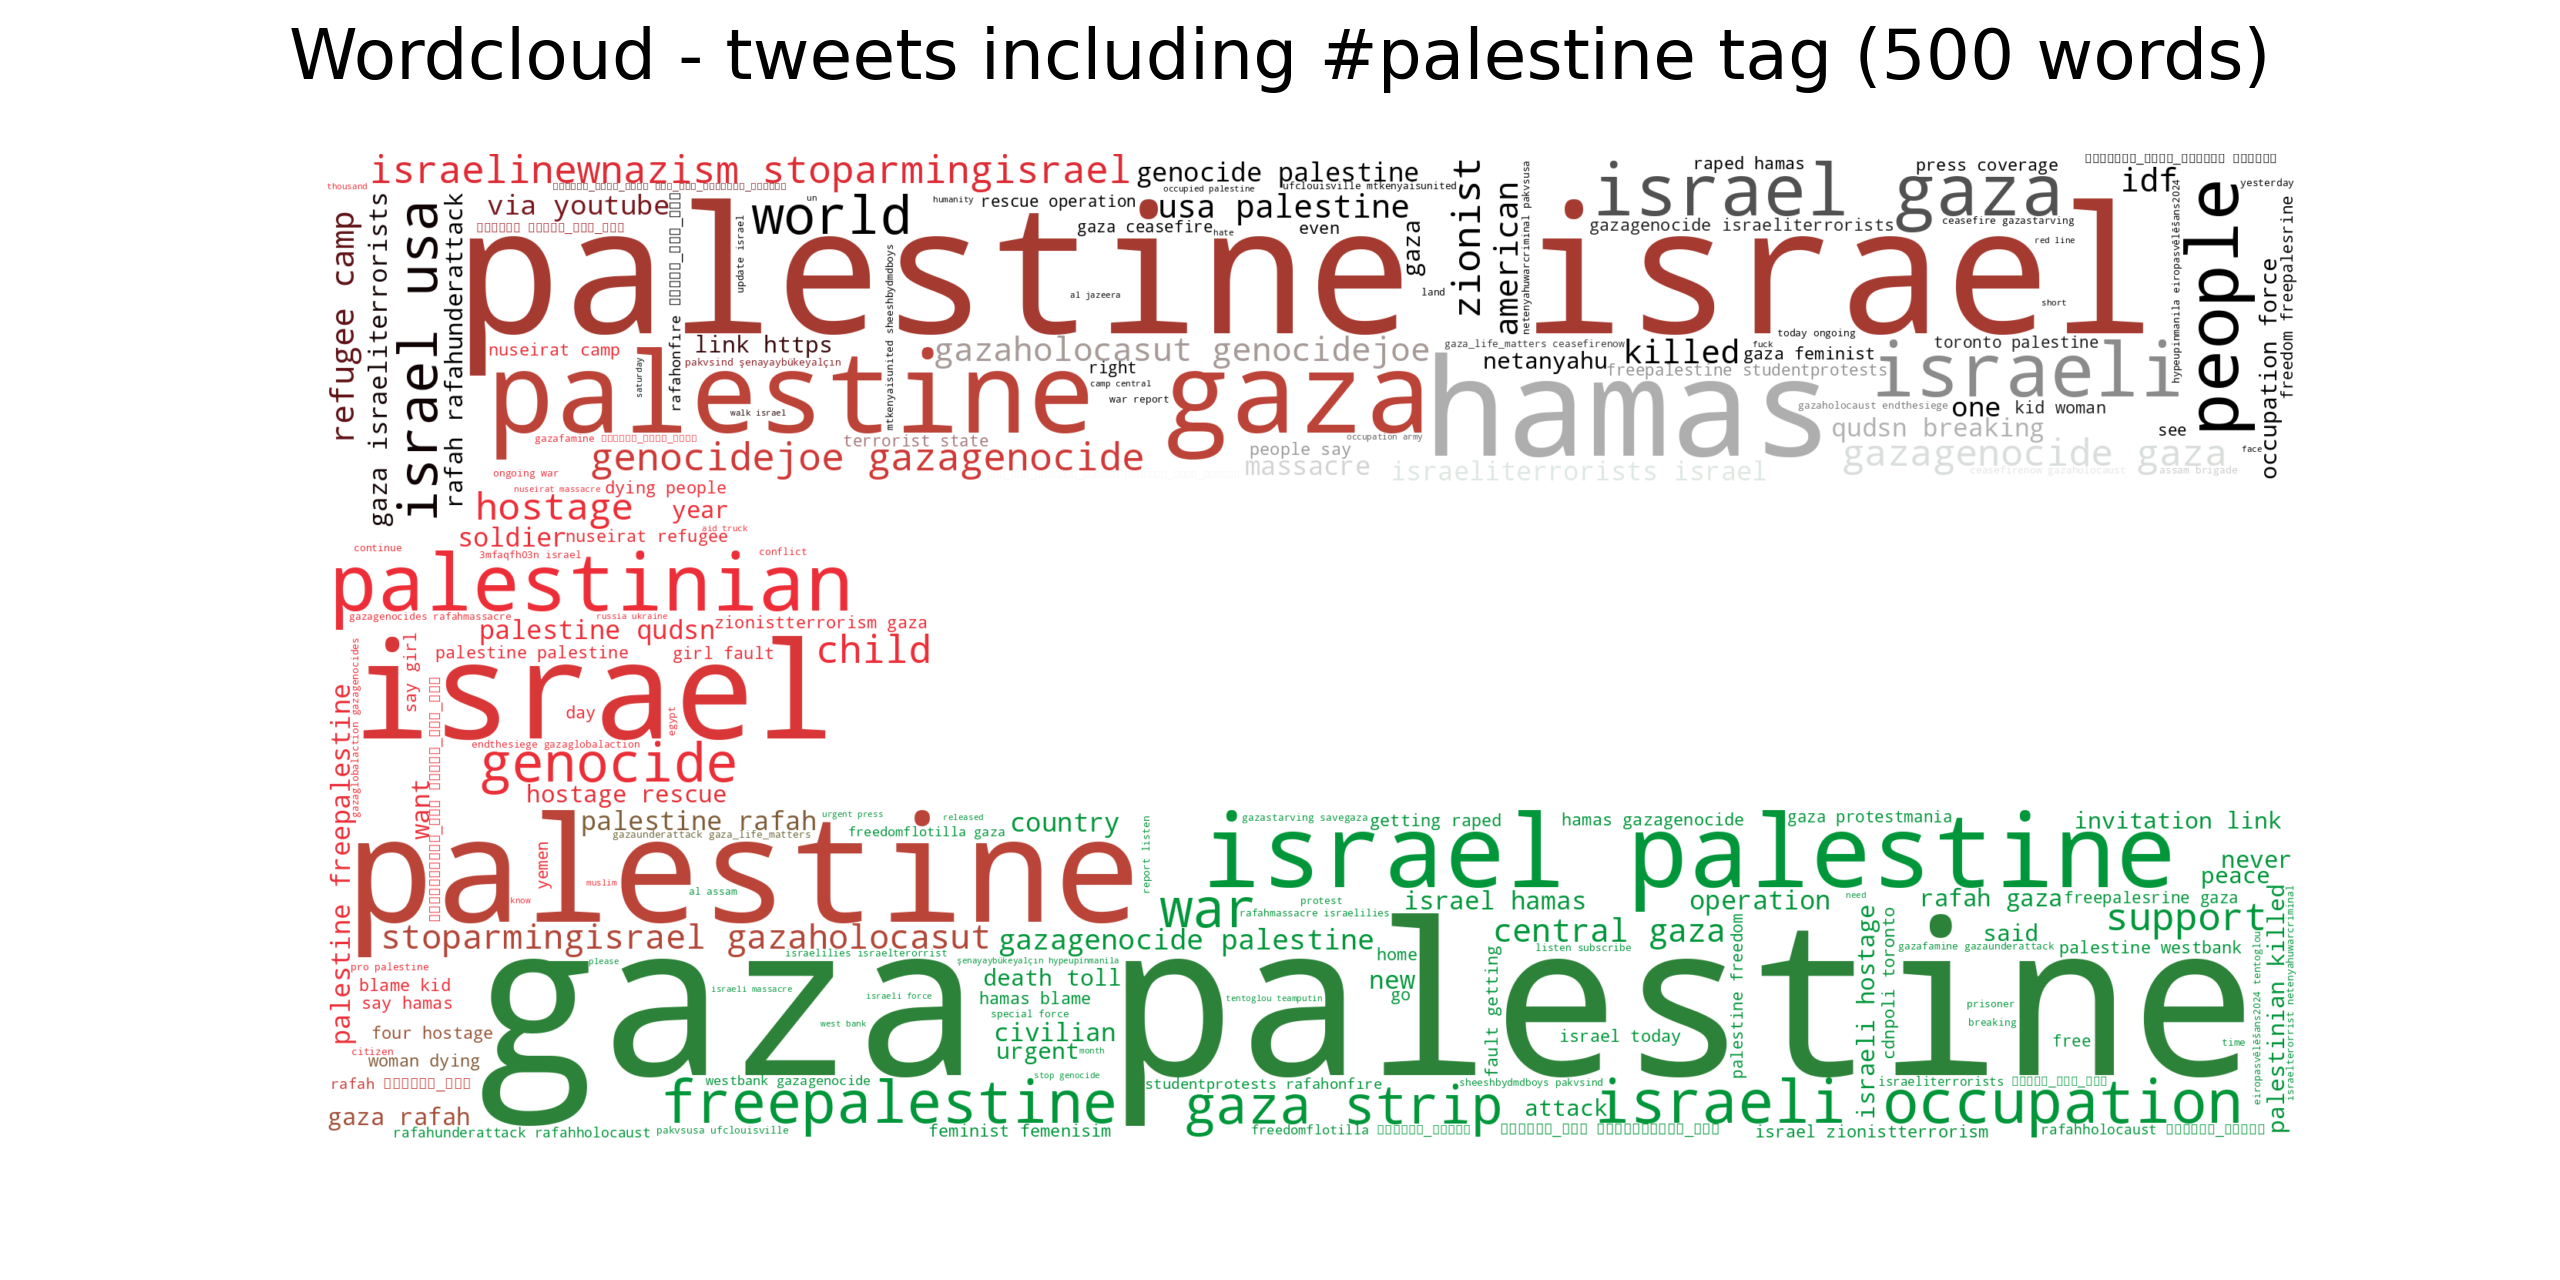
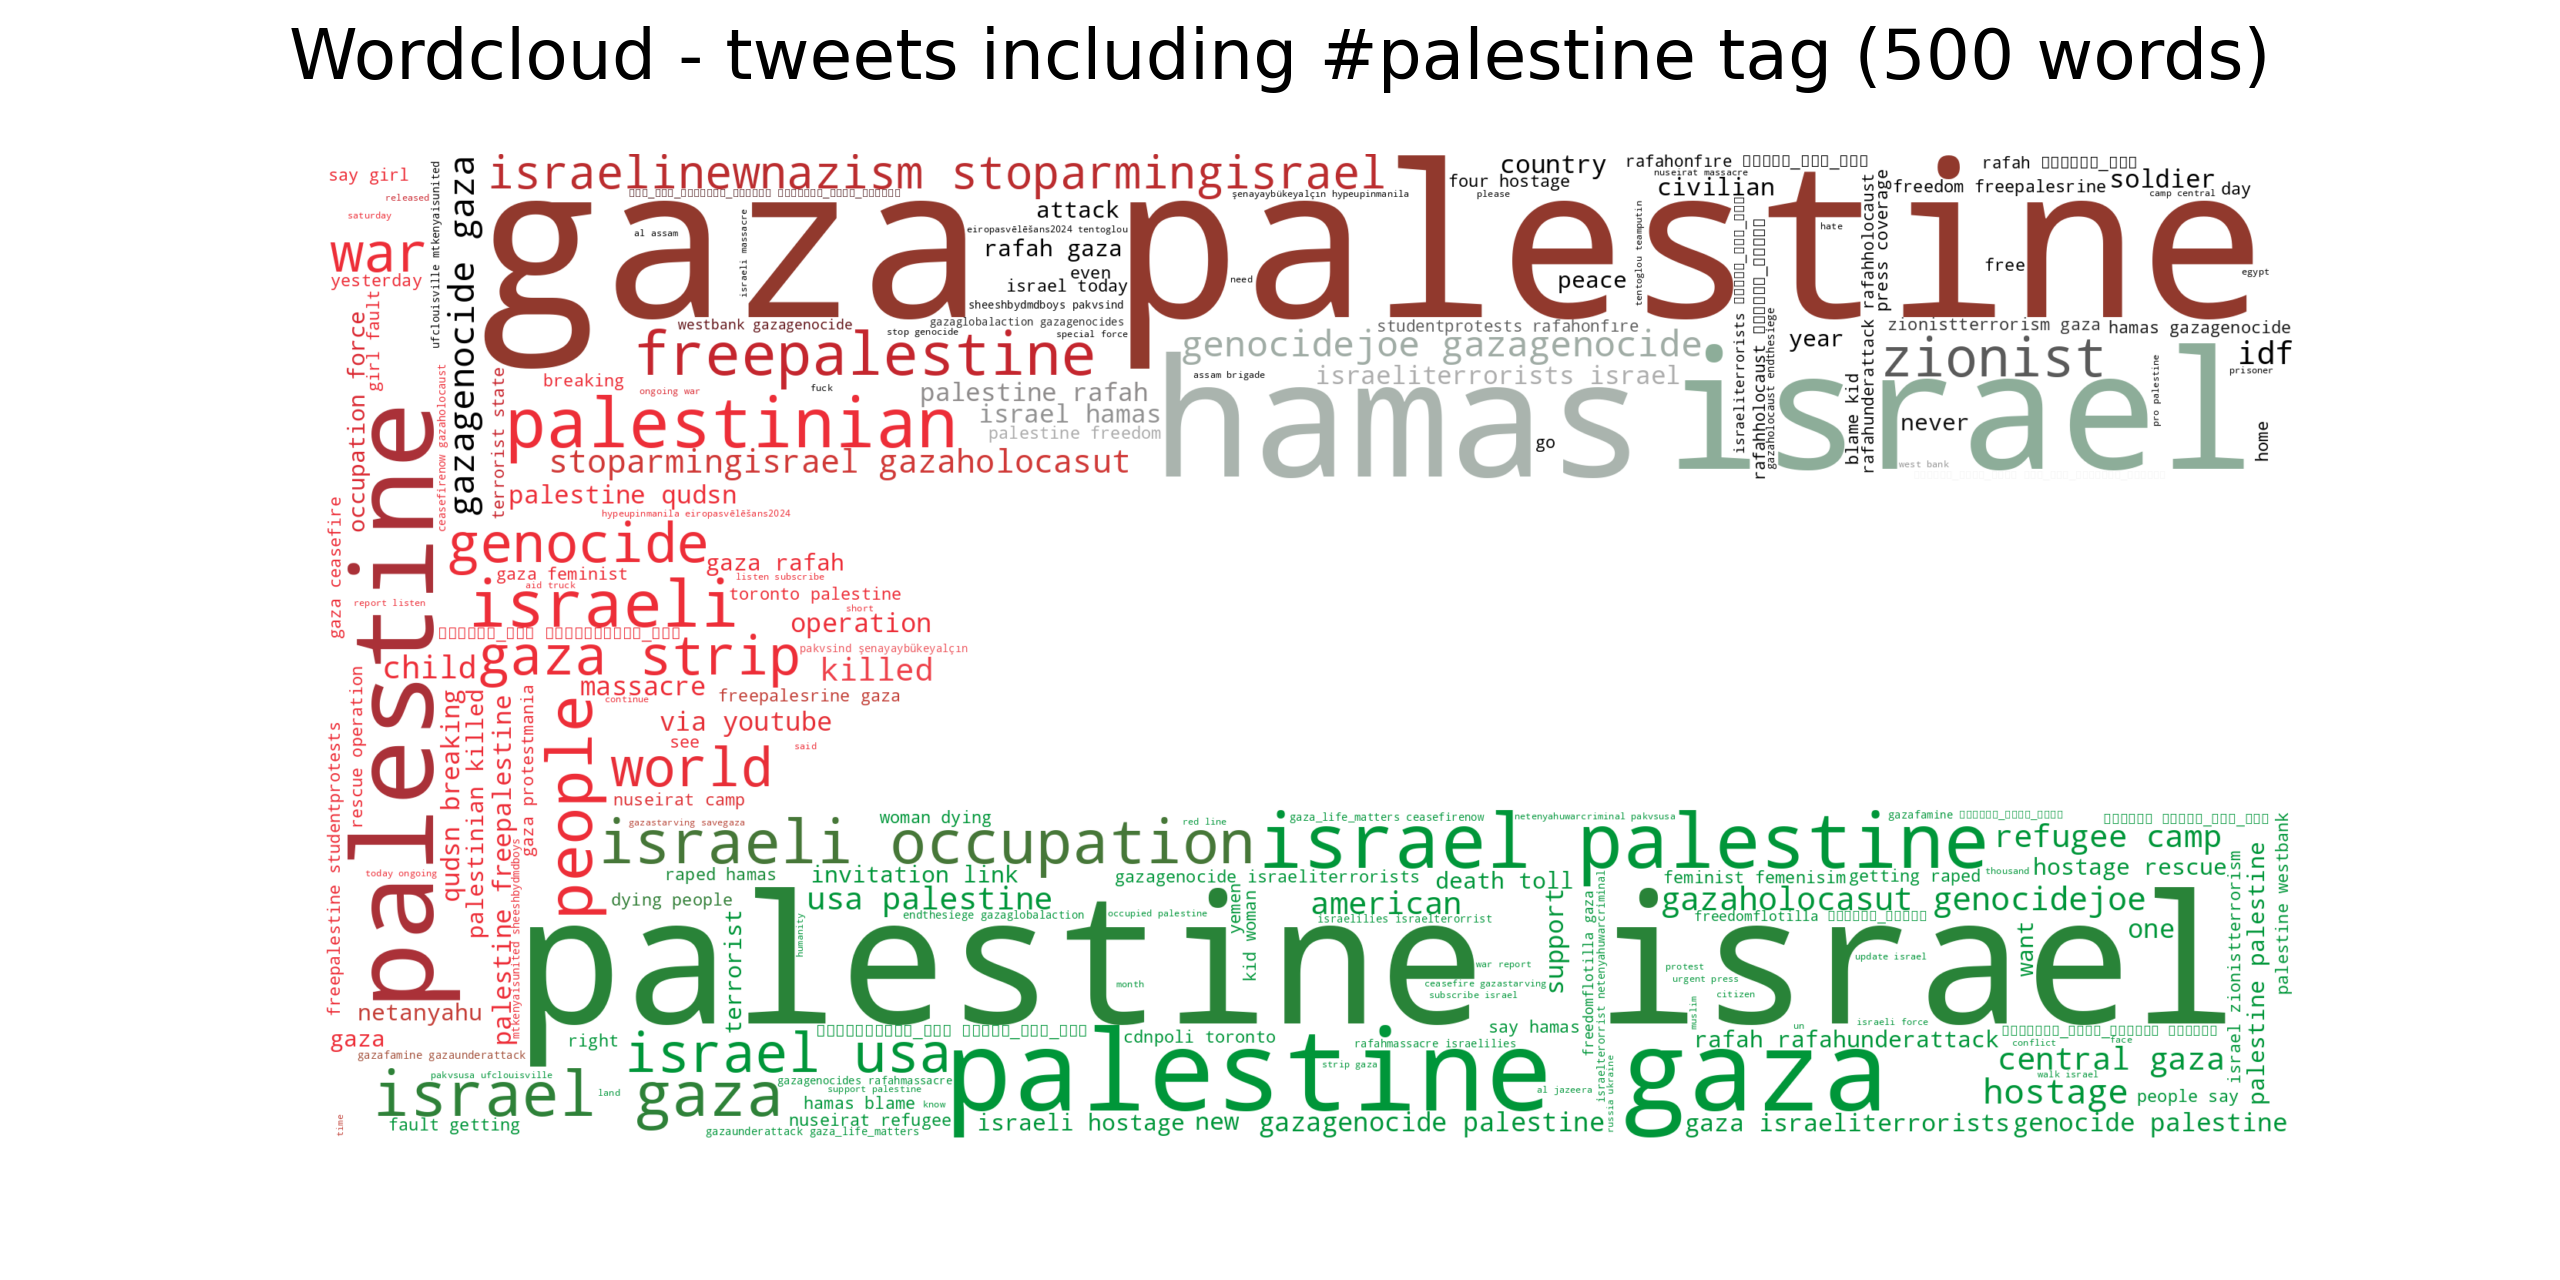
preprocessing improved

Changed region(s): [[0.125, 0.125, 0.9062, 0.9062]]

diff --git a/src/words/process.py b/src/words/process.py
@@ -7,62 +7,97 @@ from rich import print
 import pandas as pd
 import string
 from autocorrect import Speller
-from sklearn.feature_extraction.text import CountVectorizer
-import text2emotion as te
+import re
+import numpy as np
 
 analyzer = SentimentIntensityAnalyzer()
 speller = Speller(fast=True)
-# Use a pipeline as a high-level helper
 
 
+# Preprocessing function
 def preprocess_text(text: str):
-    # remove spells
-    spells_removed = speller(text.lower().strip())
-    # tokenize
-    tokens = word_tokenize(spells_removed)
-    # remove stop words
+    if pd.isnull(text):  # Check for NaN values
+        return ""
 
+    # Remove URLs
+    text = re.sub(r"""https?:\/\/\S+|www\.\S+""", " ", text)
+
+    # Spelling correction
+    text = speller(text.lower().strip())
+
+    # Tokenize
+    tokens = word_tokenize(text)
+
+    # Stopwords and punctuation removal
     new_stopwords = stopwords.words("english") + list(string.punctuation)
     new_stopwords.extend(
-        ["'", "`", "...", ".", '"', "``", "..", "”", "''", "“", "’", ","]
+        [
+            "'",
+            "`",
+            "...",
+            ".",
+            '"',
+            "``",
+            "..",
+            "”",
+            "''",
+            "“",
+            "’",
+            ",",
+            "co",
+            "http",
+            "amp",
+            "u",
+            "n",
+            "s",
+            "n't",
+            "t",
+            " ",
+            "\n",
+        ]
     )
     filtered_tokens = [token for token in tokens if token not in new_stopwords]
-    # Lemmatize the tokens
+
+    # Lemmatize
     lemmatizer = WordNetLemmatizer()
     lemmatized_tokens = [lemmatizer.lemmatize(token) for token in filtered_tokens]
-    # Join the tokens back into a string
-    return lemmatized_tokens
+
+    return " ".join(lemmatized_tokens)
 
 
+# Sentiment analysis function
 def get_sentiment(text):
+    if pd.isnull(text) or text.strip() == "":
+        return np.nan
     scores = analyzer.polarity_scores(text)
-    sentiment = 1 if scores["pos"] > 0 else 0
-    return sentiment
+    return 1 if scores["pos"] > 0 else 0
 
 
+# Load dataset
 def load_dataset():
     return pd.read_csv("./data/war-day/df.csv")
 
-
 if __name__ == "__main__":
-    # download if not present on the device
-    # nltk.download()
     df = load_dataset()
 
+    # Create new DataFrame
     new_df = pd.DataFrame()
     new_df["date"] = df["date"]
-    new_df["processed_content"] = (
-        df["raw_content"].apply(preprocess_text).apply(" ".join)
-    )
-    # new_df["user_desc_preprocessed"] = (
-    #     df["user_description"].apply(str).apply(preprocess_text)
-    # )
+
+    # Process content
+    new_df["processed_content"] = df["raw_content"].apply(preprocess_text)
+
+    # Drop rows with NaN or empty processed_content
+    new_df = new_df[new_df["processed_content"].str.strip() != ""]
+
     new_df["hash_tags"] = df["hash_tags"]
+
+    # Sentiment analysis
     new_df["content_sentiment"] = new_df["processed_content"].apply(get_sentiment)
-    # new_df["user_desc_sentiment"] = new_df["processed_user_desc"].apply(
-    #     get_sentiment
-    # )
-    # vectorizer = CountVectorizer()
-    # x = vectorizer.fit_transform(new_df["processed_content"])
-    # print(x)
-    new_df.to_csv("./data/war-day/preprocessed.csv")
+
+    # Drop rows with NaN sentiment
+    new_df = new_df.dropna(subset=["content_sentiment"])
+
+    # Save to CSV
+    new_df.to_csv("./data/war-day/preprocessed.csv", index=False)
+    print("Preprocessing done!")

diff --git a/src/words/bow.py b/src/words/bow.py
@@ -1,11 +1,18 @@
 import pandas as pd
 from rich import print
 from sklearn.feature_extraction.text import CountVectorizer
+import numpy as np
+import matplotlib.pyplot as plt
 
 
 # Function to load preprocessed data
 def load_preprocessed():
     return pd.read_csv("./data/war-day/preprocessed.csv")
+
+
+def sum_sort_key(e):
+    return e[1]
+
 
 if __name__ == "__main__":
     # Load the data
@@ -23,13 +30,12 @@ if __name__ == "__main__":
     else:
         # Print the first few rows of the DataFrame for debugging
         print("[bold green]First few rows of the input data:[/bold green]")
-        print(df.head())
-
         # Initialize the CountVectorizer
         count_vect = CountVectorizer()
-
         # Fit and transform the processed content column
-        count_matrix = count_vect.fit_transform(df["processed_content"])
+        count_matrix = count_vect.fit_transform(
+            df["processed_content"].values.astype("U")
+        )
 
         # Convert the count matrix to a dense array
         count_array = count_matrix.toarray()
@@ -44,7 +50,19 @@ if __name__ == "__main__":
             df_count = pd.DataFrame(
                 data=count_array, columns=count_vect.get_feature_names_out()
             )
-
+            summed = count_array.sum(axis=0)
+            summed_with_labels = list(zip(count_vect.get_feature_names_out(), summed))
+            summed_with_labels.sort(key=sum_sort_key, reverse=True)
+            head_15 = summed_with_labels[:15]
+            head_15_X = [x for x, y in head_15]
+            head_15_y = [y for x, y in head_15]
+            print(head_15_X)
+            plt.figure(figsize=(15, 10))
+            plt.bar(head_15_X, head_15_y)
+            plt.title("Most common words in all gathered tweets")
+            plt.xlabel("Word")
+            plt.ylabel("Occurencies")
+            plt.savefig("./data/war-day/most-common-words.png")
             # Print the resulting DataFrame
             print("[bold green]CountVectorizer result:[/bold green]")
             df_count.to_csv("./data/war-day/bow.csv")

diff --git a/src/words/cow.py b/src/words/cow.py
@@ -56,6 +56,9 @@ def main_cow():
         "processed_content"
     ]
     all_rows = processed_tokens.tolist()
+    for line in all_rows:
+        if isinstance(line, float):
+            print(line)
     all_rows_splitted = [line.split(" ") for line in all_rows]
     word_list = [word for line in all_rows_splitted for word in line]
     # Generate a word cloud image
